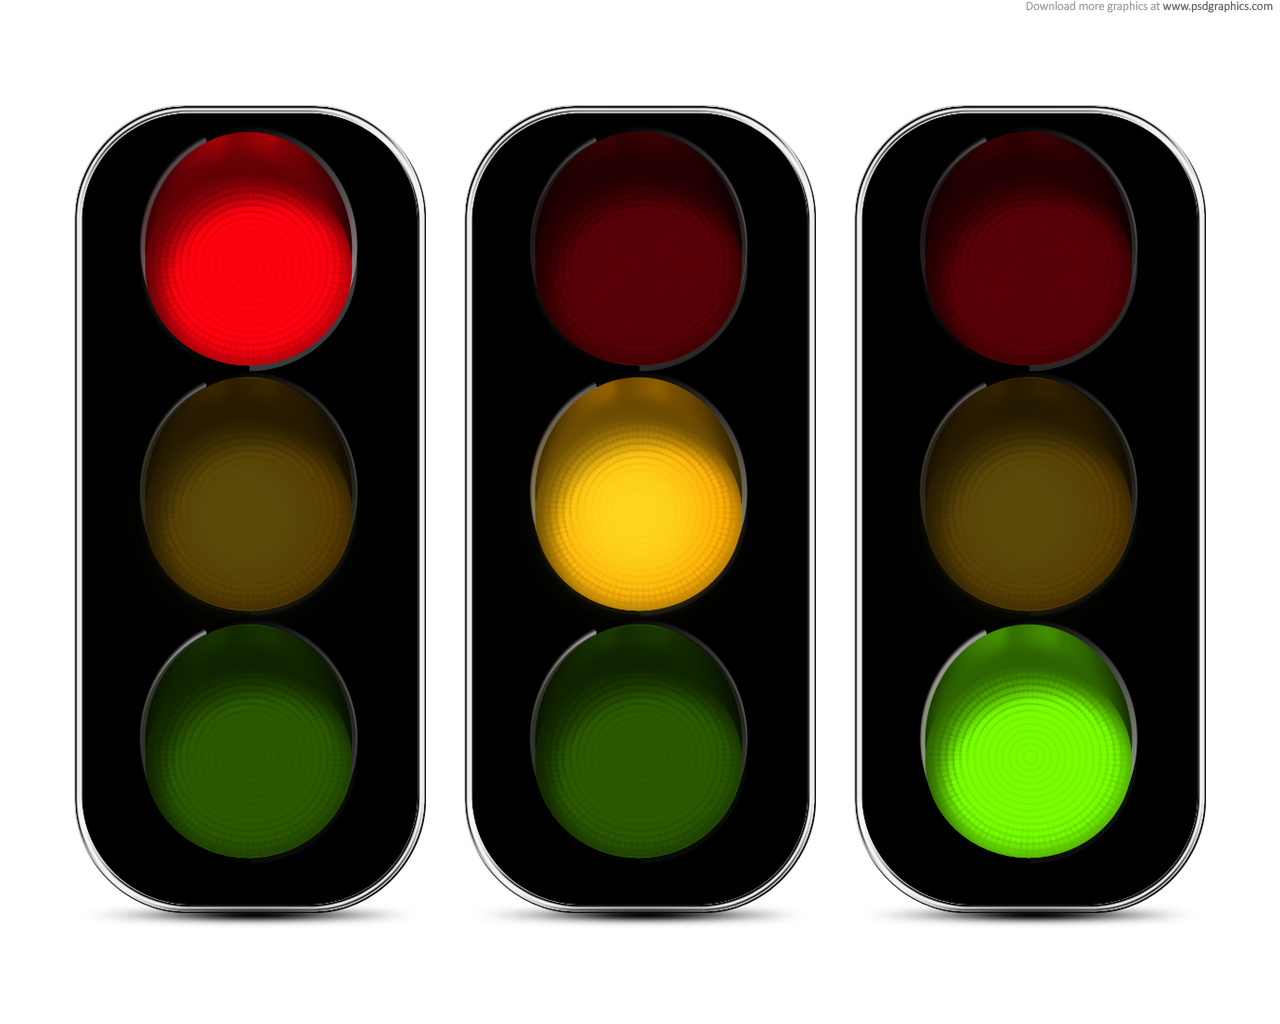
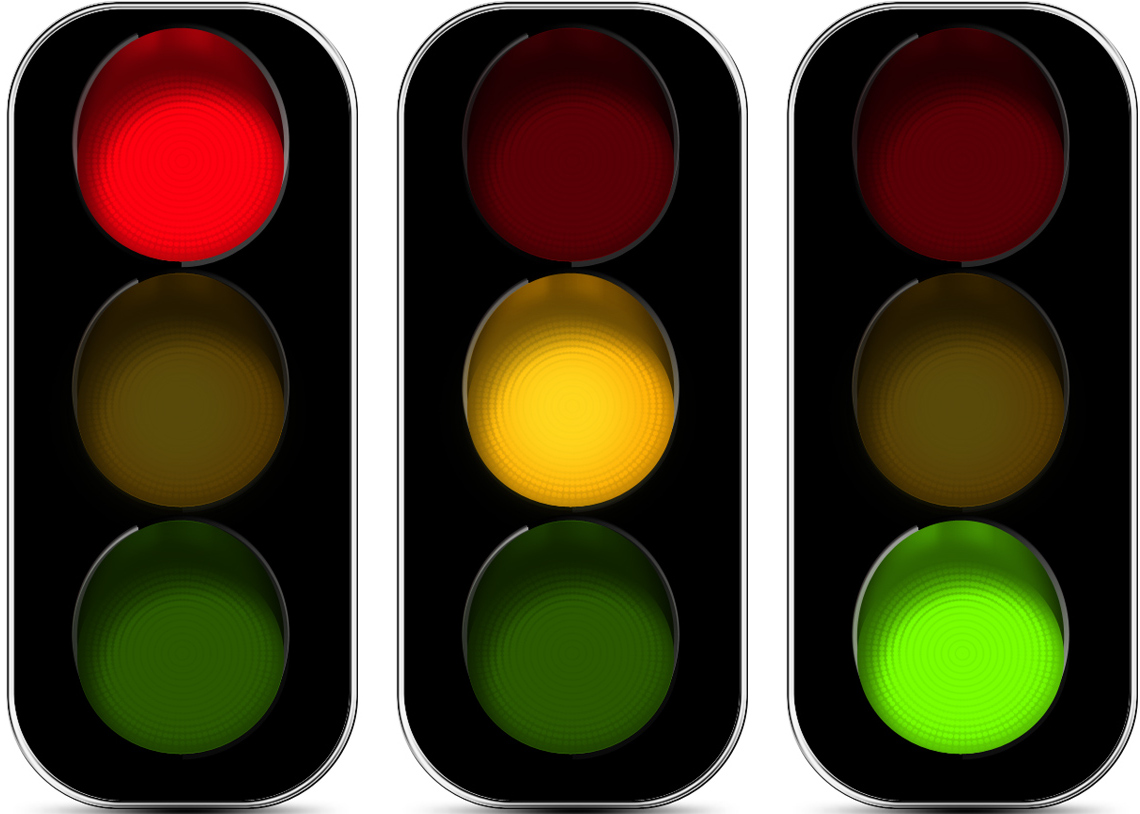
Add threading

diff --git a/templates/index.html b/templates/index.html
@@ -11,21 +11,20 @@
     <script>
         var socket = io(); // init connection
 
-        /* RECEIVE Message */
         socket.on('light_switched', function(data) {
-          console.log("light_switched");
+          console.log("light_switched "+data["data"]);
         });
 
         socket.on('button_pressed', function(data) {
-          console.log("button_pressed");
+          console.log("button_pressed "+data["data"]);
         });
     </script>
 
   </head>
 
-  <body>
-    <h1>Traffic Lights</h1>
-  <button onclick="notify_clicked();">Send message to server</button>
-
+  <body style="text-align: center;">
+    <br />
+    <img style="height: 500px;" src="{{ url_for('static', filename='traffic-lights.jpg') }}">
+    <h3 style="display: none;">Button pressed</h3>
   </body>
 </html>

diff --git a/main.py b/main.py
@@ -1,10 +1,17 @@
 from flask import Flask
 from flask import render_template, request, redirect, session, url_for, escape, make_response, flash, abort
 import threading
+import json
 
 app = Flask(__name__)
 # (session encryption) keep this really secret:
 app.secret_key = "bnNoqxXSgzoXSOezxpZjb8mrMp5L0L4mJ4o8nRzn"
+
+from flask_socketio import SocketIO, send, emit
+socketio = SocketIO(app)
+
+light_state = 0
+my_thread = threading.Thread()
 
 @app.route('/')
 def index():
@@ -12,19 +19,38 @@ def index():
 
 @app.route('/get_status')
 def get_status():
-	return 
+	return json.dumps({"data":light_state})
 
-from flask_socketio import SocketIO, send, emit
-socketio = SocketIO(app)
+@app.route('/press_button', methods=['POST'])
+def press_button():
+	print("button pressed")
+	global light_state
+	global my_thread
+	light_state = 2 # green
+	# restart timer
+	my_thread.cancel()
+	my_thread = threading.Timer(5.0, switch_light)
+	my_thread.start()
+	socketio.emit('button_pressed', {"data":light_state})
 
-@app.before_first_request
-def switch_light():
-	threading.Timer(5.0, switch_light).start()
-	socketio.emit('light_switched', {})
+# ordinary function
+def switch_light(): 
+	print("switching")
+	global light_state
+	global my_thread
+	light_state = (light_state+1)%3 # change global variable
+	my_thread = threading.Timer(5.0, switch_light) # schedule next switch
+	my_thread.start()
+	socketio.emit('light_switched', {"data":light_state})
+
+@app.route('/debug')
+def debug():
+	return redirect(url_for("press_button"))
 
 # -------------------------------------------------------------------
 
 if __name__ == '__main__':
 	#host='0.0.0.0' only with debug disabled - security risk
-	#app.run(port=8080, debug=True) - don't use this one with sockets
-	socketio.run(app, port=8080, debug=True) # only use this with sockets
+	switch_light()
+	socketio.run(app, port=8080, debug=True)
+	
